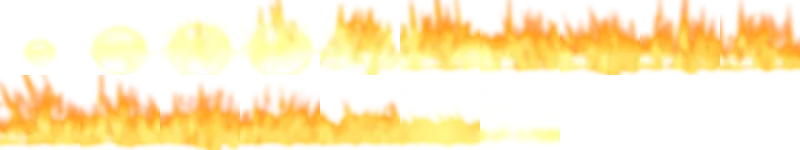
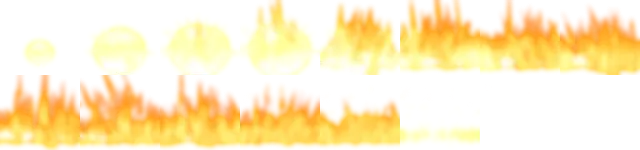
Askel's call: a lighter explosion sheet, and no hard darkening with reduced motion
The explosion ships 16 of its 20 rendered frames (60 KB off; the cast's
stills cannot be told apart; lossy packing was tried and is worse). With
reduced motion the field keeps the usual dim before the blow.

Claude-Session: https://claude.ai/code/session_01RRJtWnqtboX61E9BjJZxYa

diff --git a/src/eidolons.css b/src/eidolons.css
@@ -390,11 +390,12 @@ body[data-phase='fight'] #panel > .ehFight { display: flex; }
   background: radial-gradient(closest-side, color-mix(in srgb, var(--glow) 80%, transparent), color-mix(in srgb, var(--glow) 45%, transparent) 62%, transparent); }
 .ecFront { pointer-events: none; }
 /* (a sheet of several rows steps down them; its glow sheet is the light under it; the embers fall on; a staged call darkens the field
-   hard before its blow, so the flash and the fire are the brightest thing the fight has shown) */
+   hard before its blow, so the flash and the fire are the brightest thing the fight has shown; with reduced motion the field keeps the
+   lighter dim every call has, so nothing goes nearly black and comes back) */
 @keyframes ecFxRows { from { background-position-y: 0%; } to { background-position-y: 100%; } }
 .ecLayer.still .ecFx.ecStage { background-position-y: var(--holdY, 0%); }
 .ecFx.ecStageGlow { image-rendering: auto; filter: blur(3px) brightness(1.2); }
 .ecFx.ecEmbers { filter: drop-shadow(0 0 3px rgb(255 170 60 / 0.9)); }
 .ecLayer.still .ecFx.ecEmbers { display: none; }
 .ecLayer[data-stage='out'] .ecFx:is(.ecEmbers, .ecSmokeUp) { opacity: 0 !important; transition: opacity 1.1s ease; }
-.ecLayer.staged[data-stage='build'] .ecDim { opacity: 1; background: radial-gradient(ellipse at 50% 40%, color-mix(in srgb, var(--deep) 78%, transparent), color-mix(in srgb, var(--deep) 70%, black)); }
+.ecLayer.staged:not(.still)[data-stage='build'] .ecDim { opacity: 1; background: radial-gradient(ellipse at 50% 40%, color-mix(in srgb, var(--deep) 78%, transparent), color-mix(in srgb, var(--deep) 70%, black)); }

diff --git a/src/eidolonStage.ts b/src/eidolonStage.ts
@@ -57,7 +57,7 @@ export const STAGED: Readonly<Record<string, StagedLook>> = {
   askel: {
     sigil: { ...sheet('askel-stage-sigil', 160, 96, 22, 6, 0, 55, 13), draw: 12, glow: 3, cool: 7 },
     pillar: { ...sheet('askel-stage-pillar', 144, 352, 16, 16, 950, 320, 5), lit: true },
-    explosion: { ...sheet('askel-stage-explosion', 320, 300, 20, 10, 1500, 250, 7), lit: true },
+    explosion: { ...sheet('askel-stage-explosion', 320, 300, 16, 8, 1500, 250, 7), lit: true },
     cracks: { ...sheet('askel-stage-cracks', 256, 136, 12, 6, 0, 68, 4), open: 4 },
     embers: sheet('askel-stage-embers', 160, 200, 12, 12, 1500, 190, 0),
     fire: sheet('askel-stage-fire', 64, 112, 14, 14, 1250, 104, 5),
@@ -242,7 +242,7 @@ export const DETONATIONS: readonly { dx: number; dy: number; mul: number }[] = [
 ];
 /** The blow's own size (the wall is wider than the screen), and how far into its frames it already is in the frozen frame (ms: the
  *  white core blown out, its spikes thrown). */
-export const BLOW = { mul: 1.25, lead: 150 } as const;
+export const BLOW = { mul: 1.25, lead: 190 } as const;
 /** The smoke columns after the blow: how far from the foes' middle each stands (shares of the screen's width), nearest first. */
 export const SMOKE_SPOTS: readonly number[] = [0, -0.3, 0.3, -0.15, 0.17];
 /** What the staged blow asks of the page's own flash and shake: a hard white flash and a harder, longer shake than the painted blow's. */

diff --git a/tools/blender-fx/eidolons/parts_finish.py b/tools/blender-fx/eidolons/parts_finish.py
@@ -17,9 +17,12 @@ SRC = args[0]
 OUT = args[1] if len(args) > 1 else 'src/art/eidolons/fx'
 COLOURS = 32
 # (name: frame width, height, frames to a row)
-PARTS = {'sigil': (160, 96, 6), 'pillar': (144, 352, 16), 'explosion': (320, 300, 10), 'cracks': (256, 136, 6), 'fire': (64, 112, 14), 'scorch': (88, 48, 8), 'smoke': (128, 176, 16), 'embers': (160, 200, 12)}
+PARTS = {'sigil': (160, 96, 6), 'pillar': (144, 352, 16), 'explosion': (320, 300, 8), 'cracks': (256, 136, 6), 'fire': (64, 112, 14), 'scorch': (88, 48, 8), 'smoke': (128, 176, 16), 'embers': (160, 200, 12)}
 # (the big pieces keep a soft glow under their brightest parts: its own sheet, a quarter of the size, the same frames in the same places)
 GLOW = ('pillar', 'explosion')
+# (the explosion is rendered as 20 frames and shipped as 16: every frame of the blast itself, two in three of the long burn and the
+# smoke after it, where one frame is much like the next; it takes a fifth off the largest sheet)
+KEEP = {'explosion': [0, 1, 2, 3, 4, 5, 6, 7, 8, 10, 11, 13, 14, 16, 17, 19]}
 LUM = np.array([0.3, 0.59, 0.11], dtype=np.float32)
 
 
@@ -53,7 +56,8 @@ os.makedirs(OUT, exist_ok=True)
 total = 0
 contact = []
 for name, (w, h, cols) in PARTS.items():
-    fs = frames[name]
+    # (the palette above is from every rendered frame, so dropping frames here changes no other sheet)
+    fs = [f for i, f in enumerate(frames[name]) if name not in KEEP or i in KEEP[name]]
     rows = -(-len(fs) // cols)
     sheet = Image.new('RGBA', (w * cols, h * rows), (0, 0, 0, 0))
     for i, (rgb, a) in enumerate(fs):
